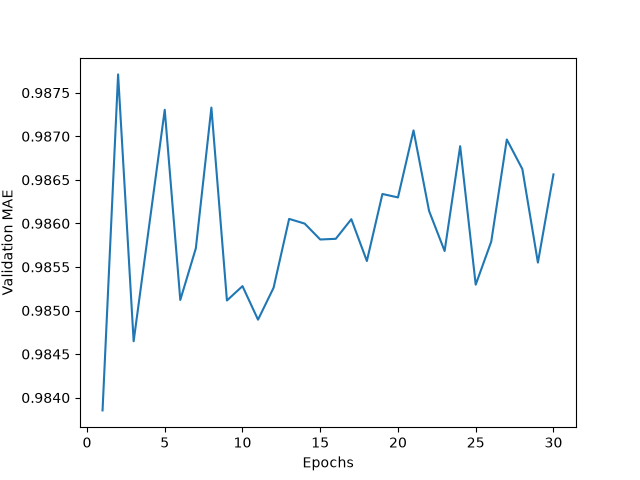
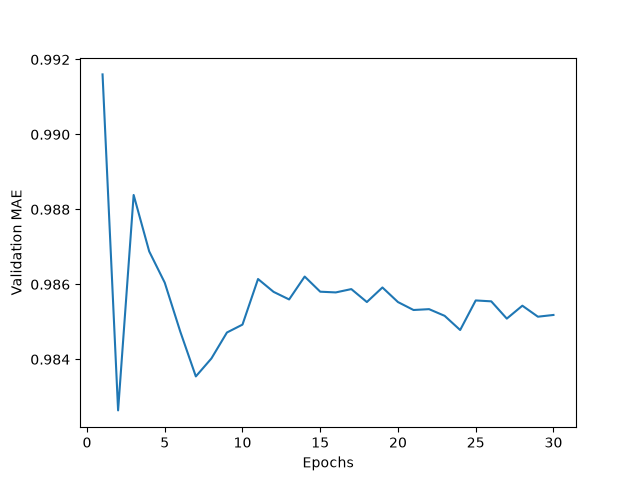
Simple TUI

diff --git a/keras/temperature_predictor/main.py b/keras/temperature_predictor/main.py
@@ -86,18 +86,16 @@ test_loss = model.evaluate(x_test, y_test)
 print(f"Test data loss: {test_loss}")
 
 
-baseline = 0
 # Calculate the average error of a model that always predicts no change in temperature from the last temperature change
 # This is a baseline to compare the actual model to
+baselineList = []
 for i, val in enumerate([sublist[-1] for sublist in x_test]):
     abs_err = abs(val - y_test[i])
 
-    if baseline == 0:
-        baseline = abs_err
-    else:
-        baseline = (abs_err + baseline) / 2
+    baselineList.append(abs_err)
 
-print(f"Baseline MAE: {baseline}")
+# print the baseline
+print(f"Baseline MAE: { sum(baselineList) / len(baselineList) }")
 
 # Put the model training statistics into a nice graph (training_graph.png)
 mae_history = history.history["val_mean_absolute_error"]
@@ -108,3 +106,29 @@ plt.xlabel("Training Iterations")
 plt.ylabel("Validation Error Average (°C)")
 plt.title("Model Validation Error During Training")
 plt.savefig("training_graph.png")
+
+# Enter seven daily maximum temperatures to predict the next day's maximum.
+print("\nEnter 7 daily maximum temperatures in °C, from oldest to most recent.")
+manual_temps = []
+for day in range(1, num_days_per_sample + 2):
+    while True:
+        try:
+            temperature = float(input(f"Enter day {day} maximum temperature (°C): "))
+            if not np.isfinite(temperature):
+                raise ValueError
+        except ValueError:
+            print("Please enter a valid, finite number (for example, 23.5).")
+            continue
+        manual_temps.append(temperature)
+        break
+
+# The model expects six consecutive temperature changes, matching its training data.
+manual_changes = np.diff(manual_temps).reshape(1, num_days_per_sample)
+predicted_change = float(model.predict(manual_changes, verbose=0)[0][0])
+predicted_max_temp = manual_temps[-1] + predicted_change
+print(f"Predicted maximum temperature for the next day (day {num_days_per_sample + 2}): {predicted_max_temp:.1f} °C")
+
+actual_temp = float(input(f"Enter actual day {num_days_per_sample + 2} maximum temperature (°C): "))
+
+print(f"Prediction error: {abs(actual_temp - predicted_max_temp)} (°C)")
+
